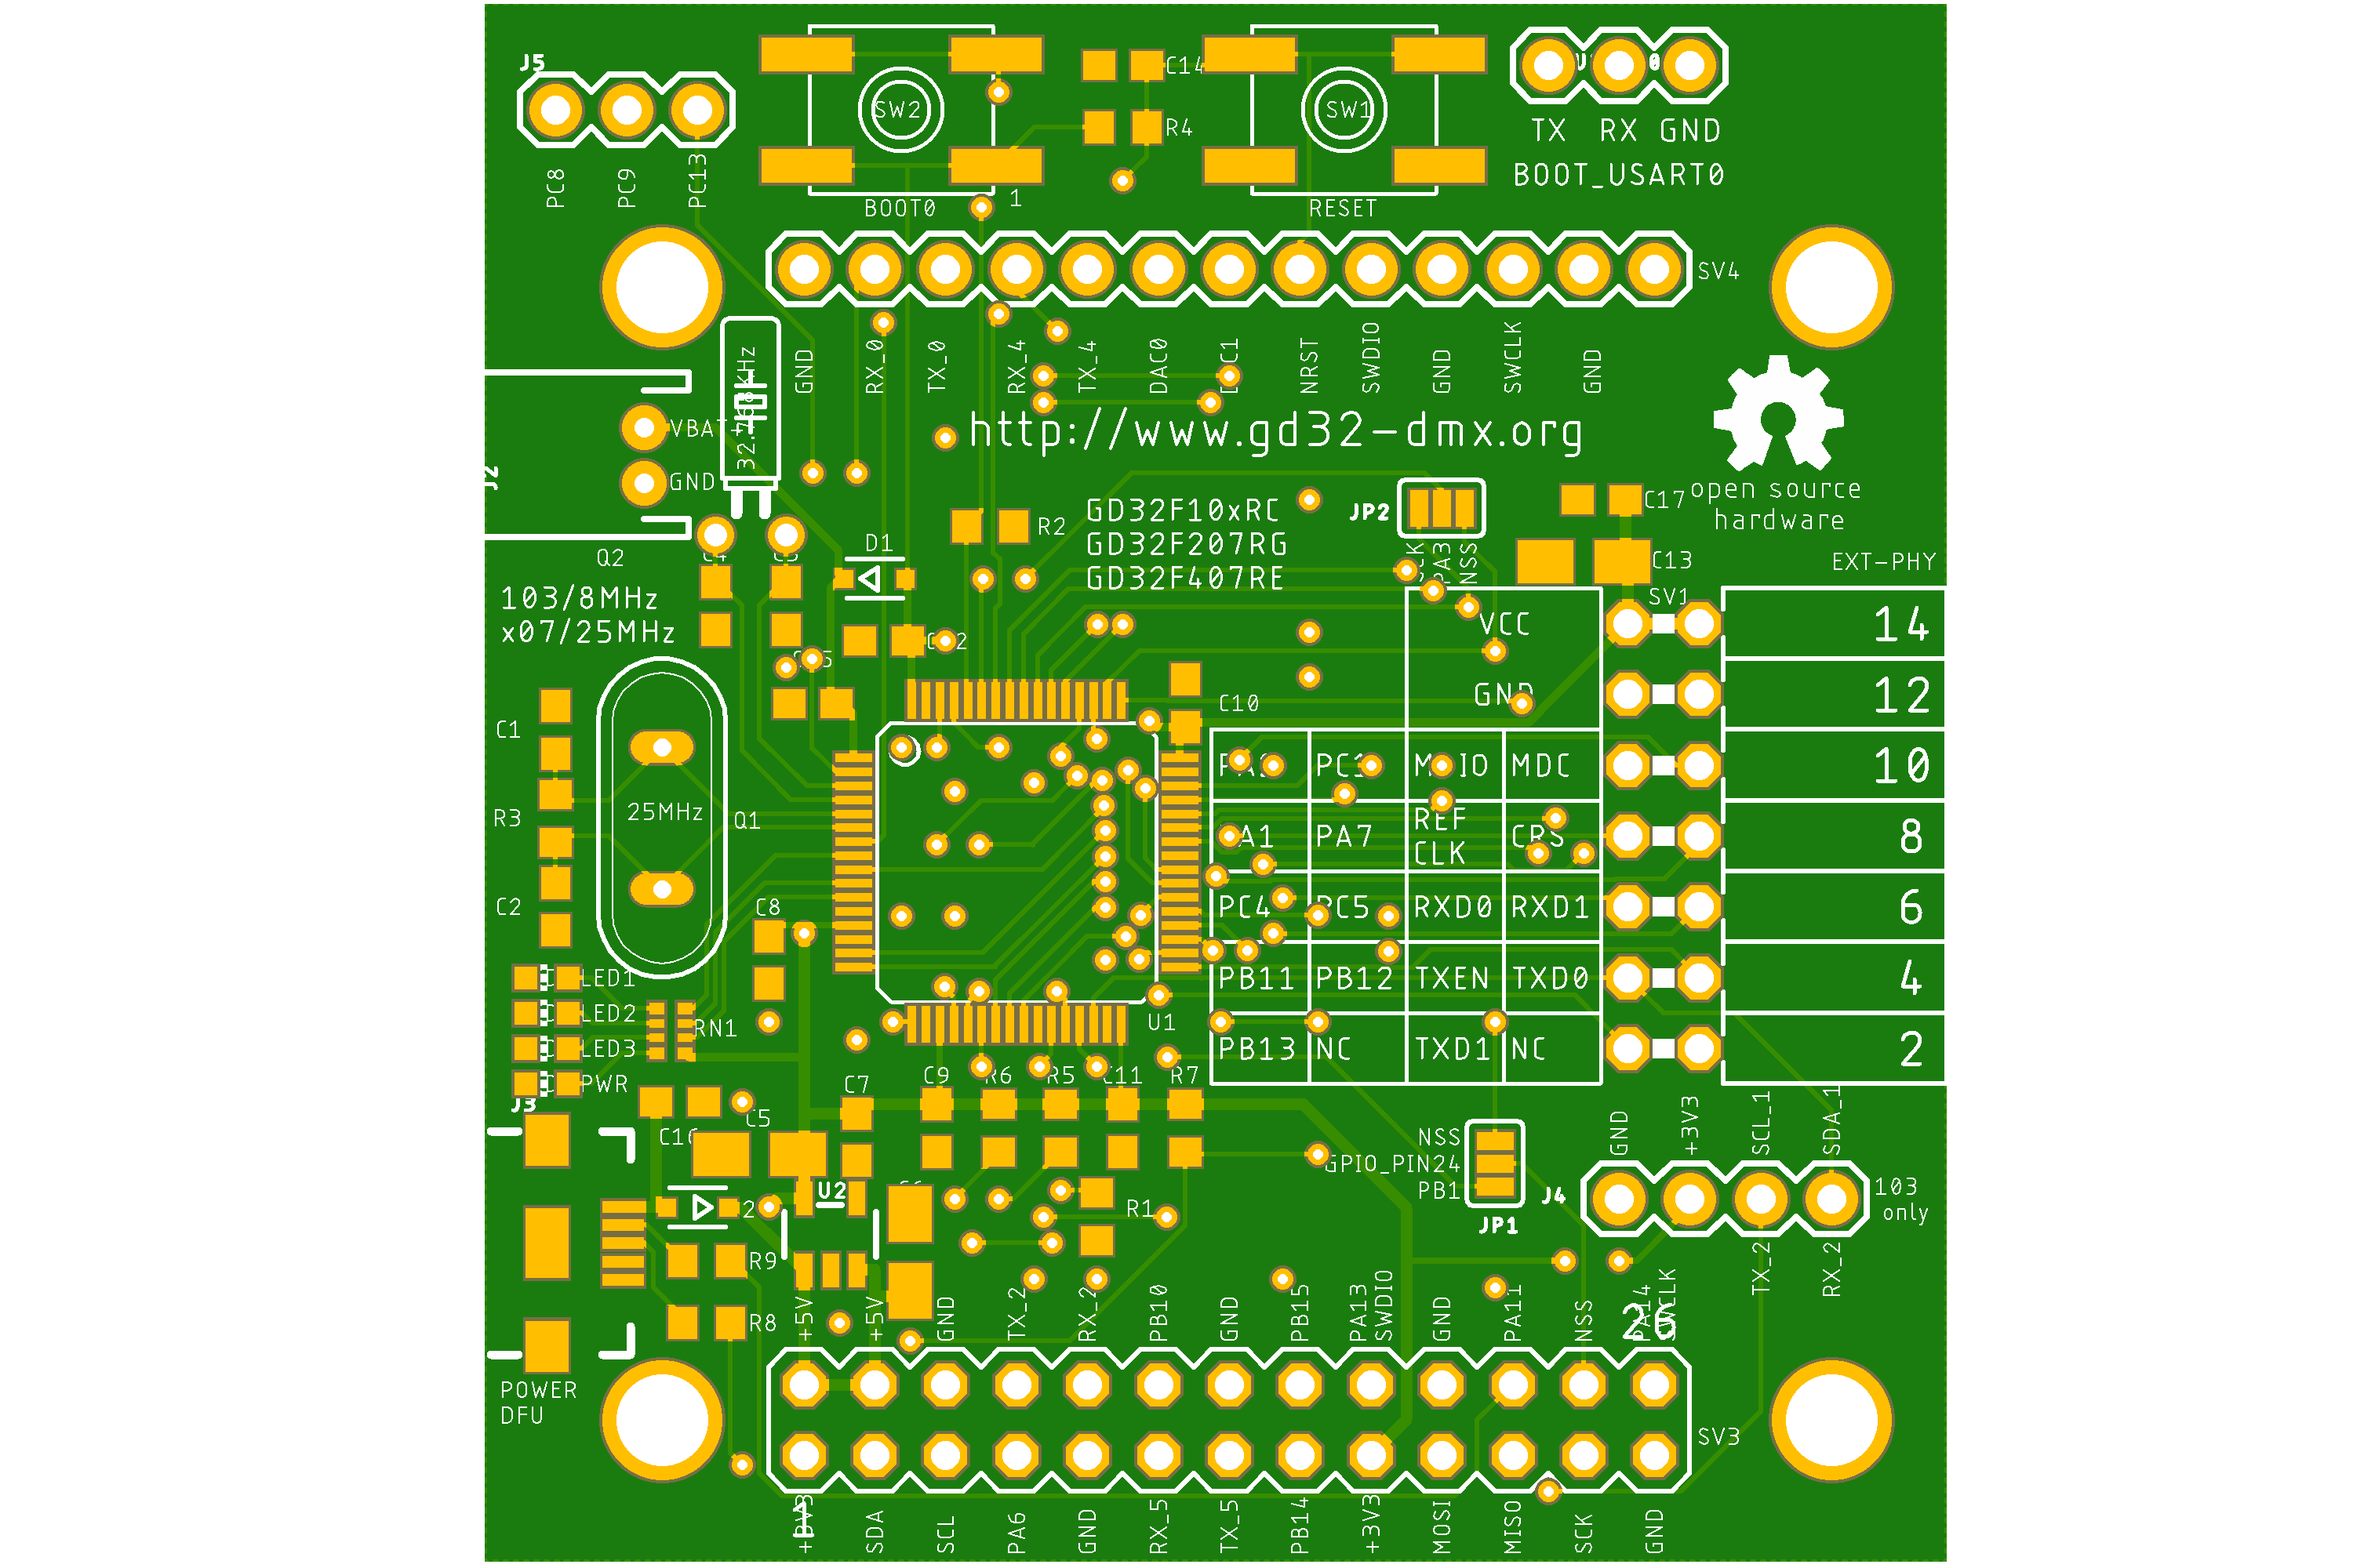
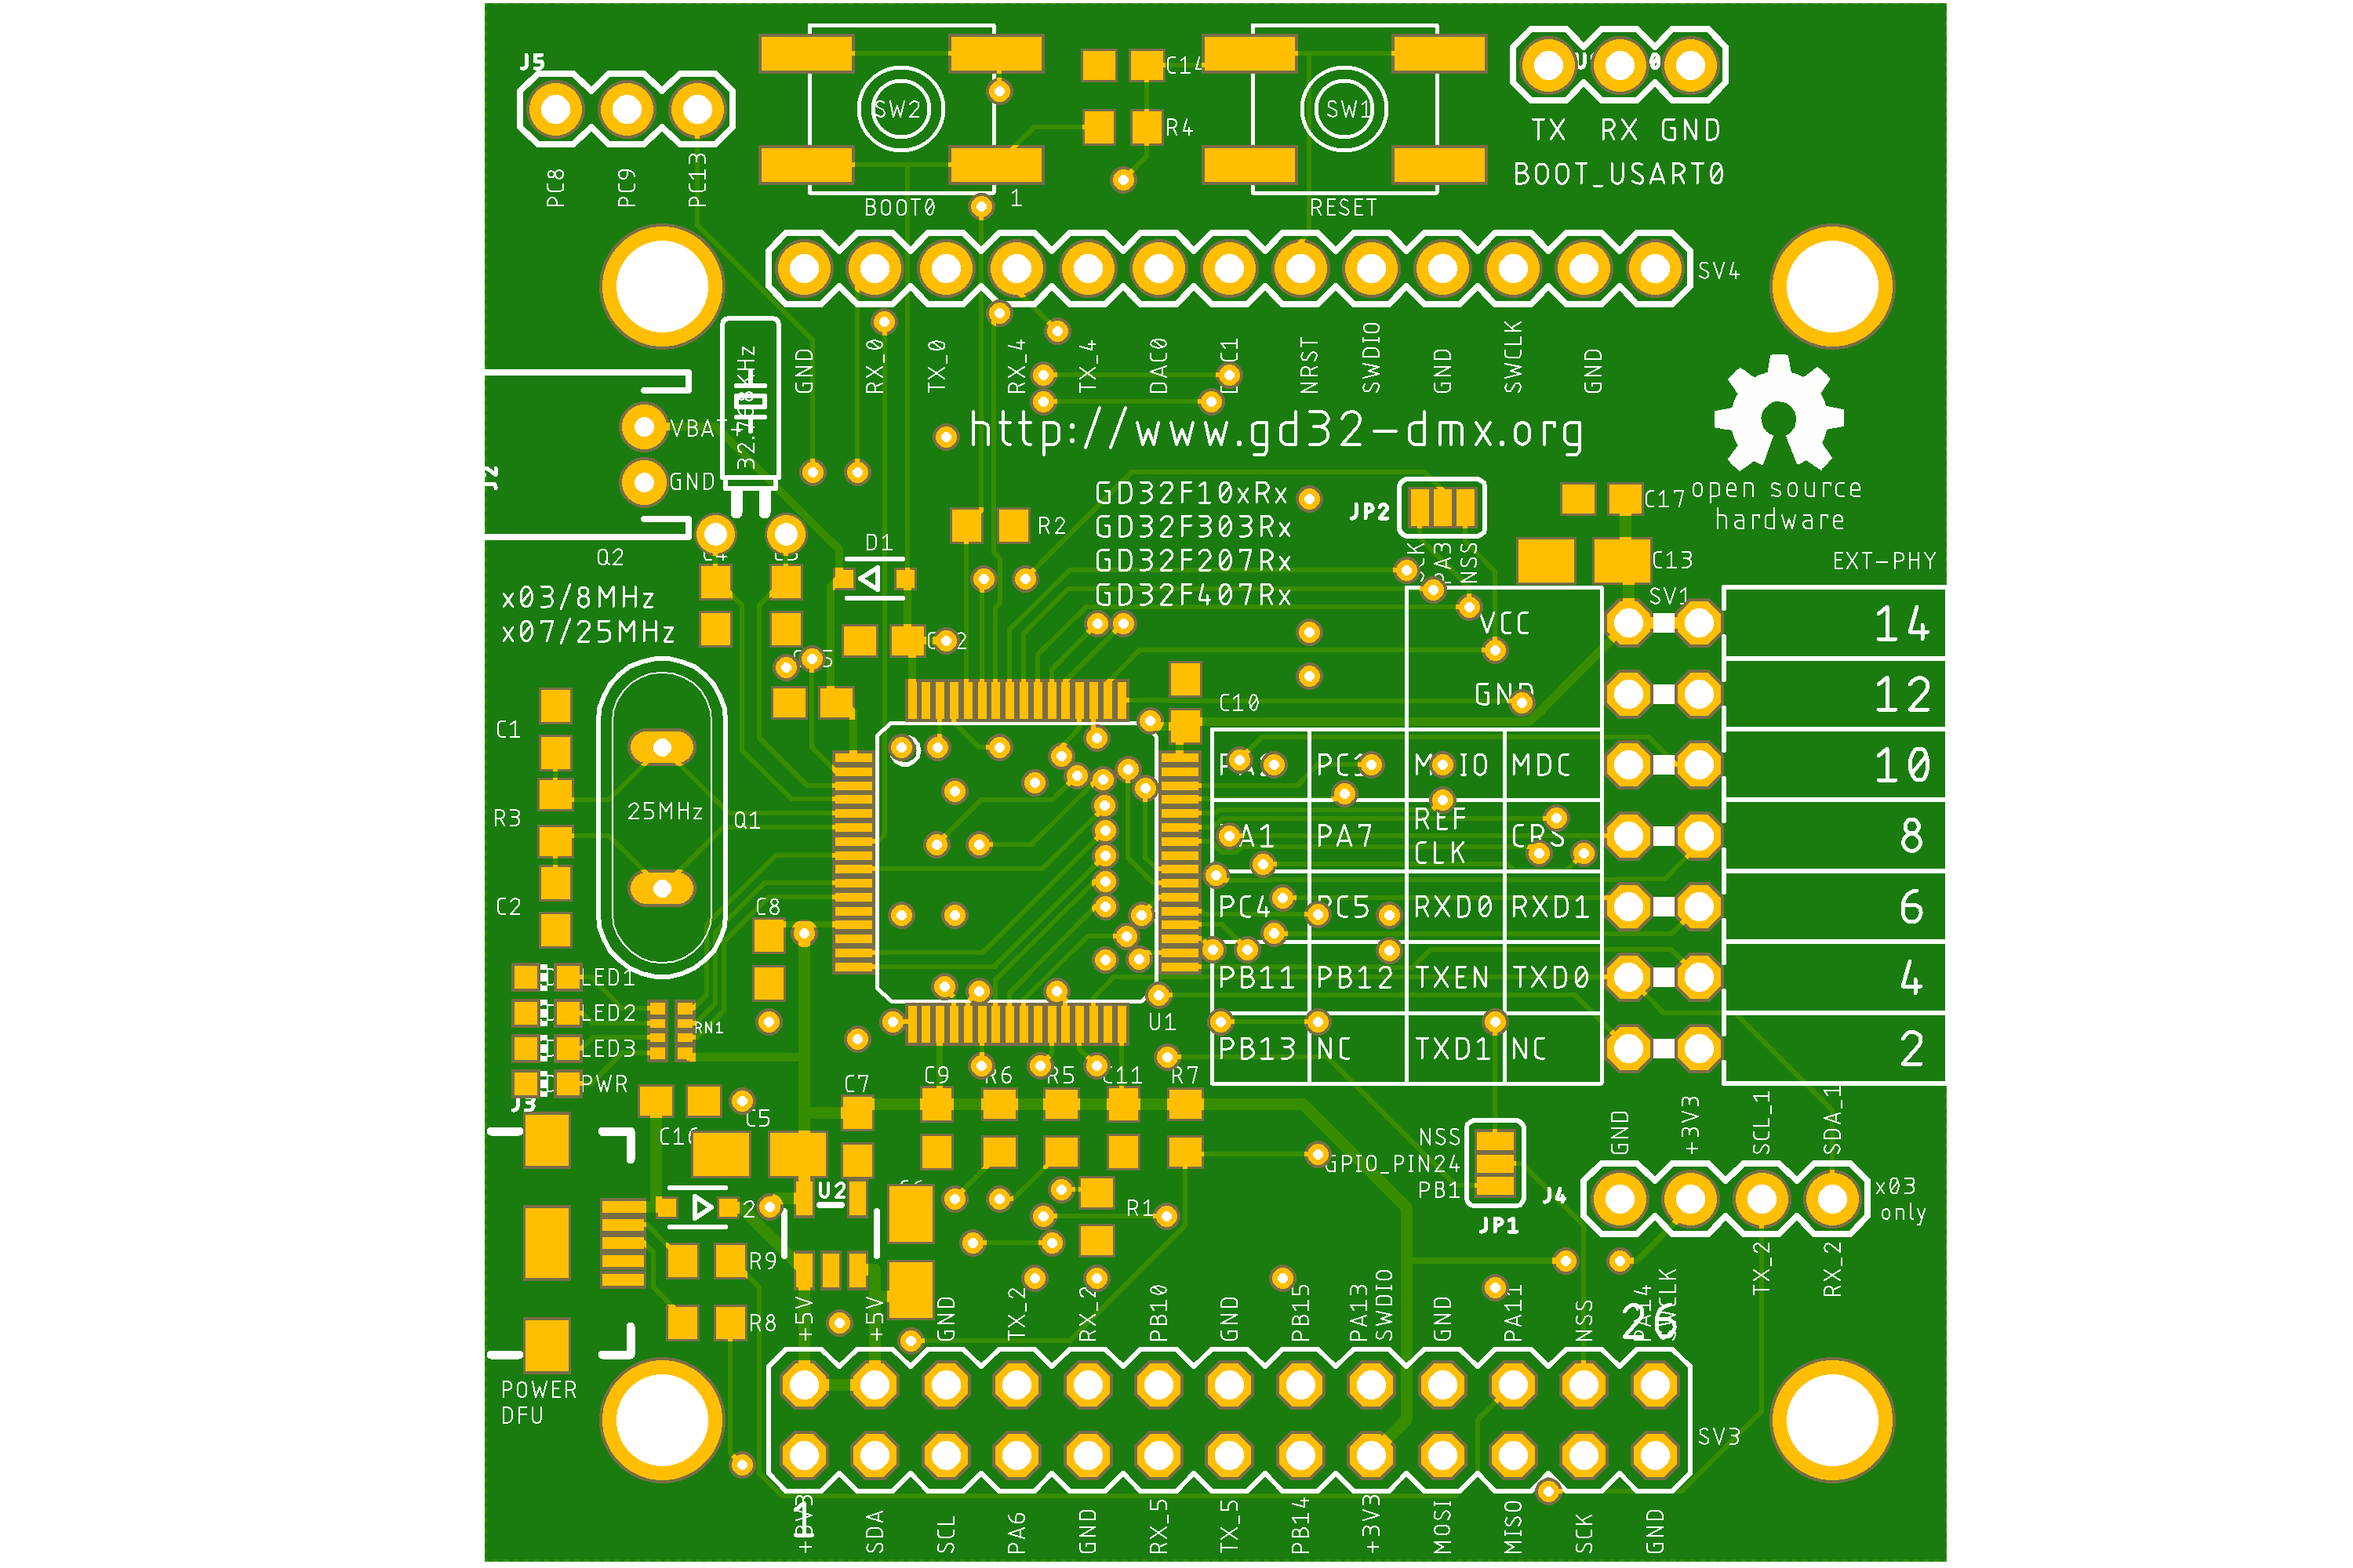
Updated with GD32F303R

diff --git a/pixel.html b/pixel.html
@@ -38,7 +38,7 @@
 <h2>SPI/I2S</h2>
 As the SPI speed cannot be specified exaclty, the I2S peripheral is used instead.
 <br>
-SPI speed = I2S bitrate = Audio sample rate * number of bits per channel * number of channels.
+<b>SPI speed</b> = <b>I2S bitrate</b> = Audio sample rate * number of bits per channel * number of channels.
 <br>
 Therefore, the Audio sample rate = SPI speed / 16 / 2.
 <br>
@@ -69,12 +69,13 @@ For the WS2812B type protocol, the SPI speed must be (close to) 6.4Mhz.
 
   <tr class="text-center-row">
     <td>GD32F107RC</td>
-    <td></d>
-    <td></td>
-    <td></td>
-    <td></td>
-    <td></td>
-    <td></td>
+    <td>-</d>
+    <td>25MHz</td>
+    <td>/5</td>
+    <td>x16</td>
+    <td>80Mhz</td>
+    <td>√</td>
+    <td>160Mhz</td>
   </tr>
 
   <tr class="text-center-row">
@@ -100,13 +101,25 @@ For the WS2812B type protocol, the SPI speed must be (close to) 6.4Mhz.
   </tr>
 
   <tr class="text-center-row">
+    <td>GD32F303RC</td>
+    <td>120MHz</d>
+    <td>n.a.</td>
+    <td>n.a.</td>
+    <td>n.a.</td>
+    <td>n.a.</td>
+    <td>n.a.</td>
+    <td>120MHz</td>
+  </tr>
+
+  <tr class="text-center-row">
     <td>GD32F407RE</td>
-    <td></d>
-    <td></td>
-    <td></td>
-    <td></td>
-    <td></td>
-    <td></td>
+    <td>-</d>
+    <td>25MHz</td>
+    <td>/5</td>
+    <td>x16</td>
+    <td>80Mhz</td>
+    <td>√</td>
+    <td>160Mhz</td>
   </tr>
 </table>
 
@@ -140,7 +153,10 @@ I2S bitrate = CK_I2S / (DIV * 2 + OF)
 
   <tr class="text-center-row">
     <td>GD32F107RC</td>
-    <td></td>
+    <td>160Mhz</td>
+    <td>12</td>
+    <td>1</td>
+    <td>6.400.000</td>
   </tr>
 
   <tr class="text-center-row">
@@ -160,8 +176,19 @@ I2S bitrate = CK_I2S / (DIV * 2 + OF)
   </tr>
 
   <tr class="text-center-row">
+      <td>GD32F303RC</td>
+      <td>120MHz</td>
+      <td>9</td>
+      <td>1</td>
+      <td>6.315.790</td>
+    </tr>
+
+  <tr class="text-center-row">
     <td>GD32F407RE</td>
-    <td></td>
+    <td>160Mhz</td>
+    <td>12</td>
+    <td>1</td>
+    <td>6.400.000</td>
   </tr>
 </table>
 

diff --git a/dev-board.html b/dev-board.html
@@ -3,7 +3,7 @@
 <head>
 <meta charset="utf-8">
 <title>Development board</title>
-<meta name="description content="Development board GigaDevice GD32F GD32F103R GD32F107R GD32F207R GD32F407R">
+<meta name="description content="Development board GigaDevice GD32F GD32F103R GD32F107R GD32F207R GD32F303R GD32F407R">
 <meta name="author" content="Arjan van Vught">
 <meta name="viewport" content="width=device-width, initial-scale=1">
 <link rel="stylesheet" href="style.css" type="text/css" />
@@ -37,8 +37,8 @@
 		<h2>Development board</h2>
 
 <a href="https://github.com/vanvught/GD32FxxxR-dev-board" target="_blank" rel="noopener noreferrer">GitHub download.</a>
-		This board can be used with the GD32F103Rx and the GD32F107Rx, GD32F207Rx, GD32F407Rx (Ethernet) MCU's.
-		<p>Please note that the crystal for the GD32F107Rx, GD32F207Rx and the GD32F407Rx is <b>25MHz</b> and the crystal for the GD32F103Rx is <b>8MHz</b>.</p>
+		This board can be used with the GD32F103Rx, GD32F303Rx and the GD32F107Rx, GD32F207Rx, GD32F407Rx (Ethernet) MCU's.
+		<p>Please note that the crystal for the GD32F107Rx, GD32F207Rx and the GD32F407Rx is <b>25MHz</b> and the crystal for the GD32F103Rx and GD32F303Rx is <b>8MHz</b>.</p>
 		<p>The USB is power and DFU.</p>
 		<p>The <b>2x13 header</b> is pin compatible with the Orange Pi Zero and Raspberry Pi boards.</p>
 
@@ -304,7 +304,7 @@
 			</tr>
 		</table>
 
-		<h3>GD32F103Rx (only)</h3>
+		<h3>GD32F103Rx GD32F303Rx (only)</h3>
 
 		<table>
 			<tr>
@@ -356,7 +356,7 @@
 
 		<table>
 
-			<h3>GD32F103Rx (only)</h3>
+			<h3>GD32F103Rx GD32F303Rx (only)</h3>
 			<table>
 				<tr>
 					<th colspan="5">1x4 Header</th>

diff --git a/index.html b/index.html
@@ -3,7 +3,7 @@
 <head>
 <meta charset="utf-8">
 <title>GD32Fxxx DMX512 RDM Pixel</title>
-<meta name="description content="GigaDevice MCU GD32F Art-Net sACN DDP DMX512 RDM GD32F103R GD32F107R GD32F207R GD32F207V GD32F407R">
+<meta name="description content="GigaDevice MCU GD32F Art-Net sACN DDP DMX512 RDM GD32F103R GD32F107R GD32F207R GD32F303R GD32F207V GD32F407R">
 <meta name="author" content="Arjan van Vught">
 <meta name="viewport" content="width=device-width, initial-scale=1">
 <link rel="stylesheet" href="style.css" type="text/css" />
@@ -92,6 +92,17 @@
   </tr>
 
   <tr class="text-center-row">
+    <td>GD32F303RC</td>
+    <td>√</td>
+    <td>√</td>
+    <td></td>
+    <td></td>
+    <td></td>
+    <td></td>
+    <td></td>
+  </tr>
+
+  <tr class="text-center-row">
     <td>GD32F407RE</td>
     <td></td>
     <td>√</td>
@@ -147,6 +158,15 @@
     <td>256</td>
     <td>128</td>
     <td>6</td>
+  </tr>
+
+  <tr class="text-center-row">
+    <td>GD32F303RC</td>
+    <td>HD</td>
+    <td>120MHz</d>
+    <td>256</td>
+    <td>48</td>
+    <td>5</td>
   </tr>
 
   <tr class="text-center-row">
